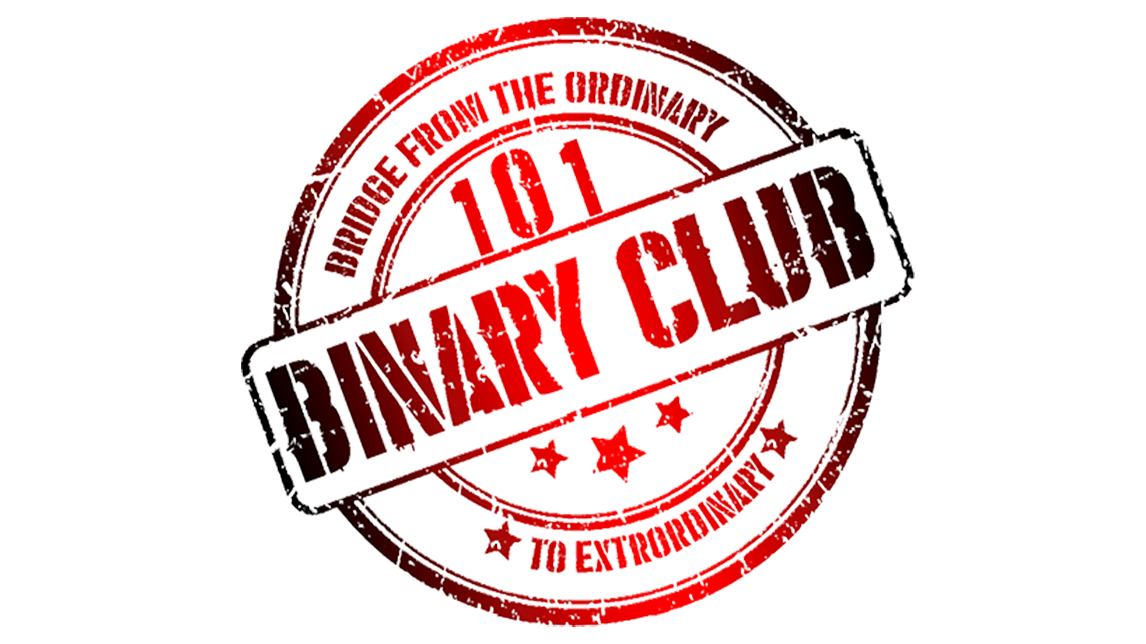
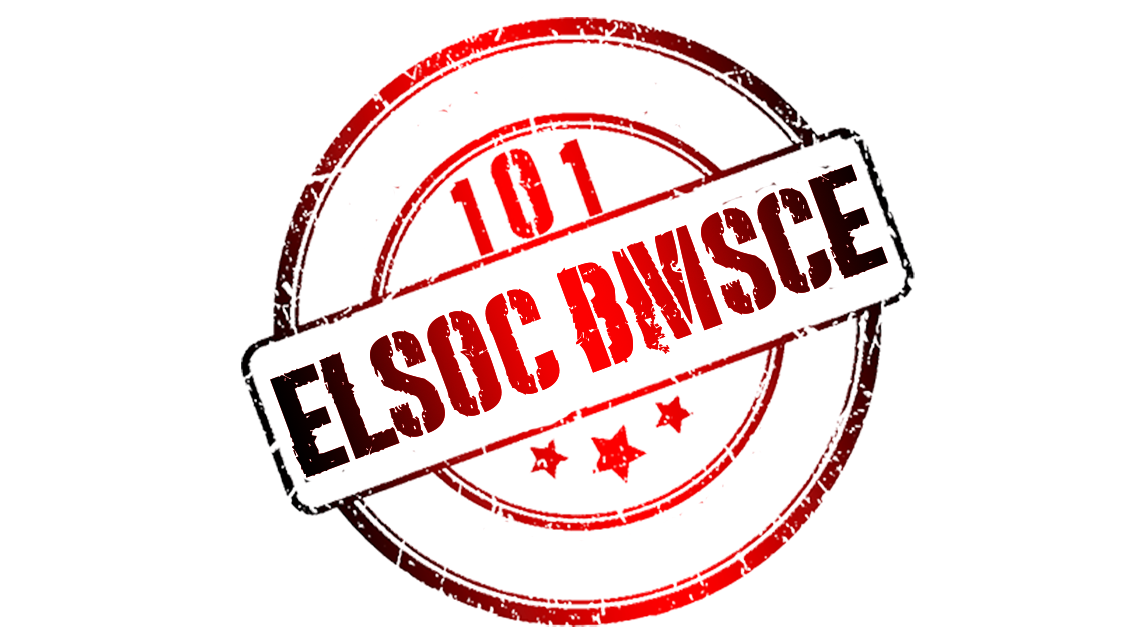
Updated site with new events and images

diff --git a/python.html b/python.html
@@ -1,0 +1,90 @@
+<!DOCTYPE HTML>
+<!--
+	Spectral by HTML5 UP
+	html5up.net | @ajlkn
+	Free for personal and commercial use under the CCA 3.0 license (html5up.net/license)
+-->
+<html>
+	<head>
+		<title>ELSOC-BMSCE</title>
+		<meta charset="utf-8" />
+		<meta name="viewport" content="width=device-width, initial-scale=1, user-scalable=no" />
+		<link rel="stylesheet" href="assets/css/main.css" />
+		<noscript><link rel="stylesheet" href="assets/css/noscript.css" /></noscript>
+	</head>
+	<body class="is-preload">
+
+		<!-- Page Wrapper -->
+			<div id="page-wrapper">
+
+				<!-- Header -->
+					<header id="header">
+						<h1><a href="index.html">ELSOC-BMSCE</a></h1>
+						<nav id="nav">
+							<ul>
+								<li class="special">
+									<a href="#menu" class="menuToggle"><span>Menu</span></a>
+									<div id="menu">
+										<ul>
+											<li><a href="index.html">Home</a></li>
+											<li><a href="Events.html">Events & Updates</a></li>
+											<li><a href="About.html">About</a></li>
+										</ul>
+									</div>
+								</li>
+							</ul>
+						</nav>
+					</header>
+
+				<!-- Main -->
+					<article id="main">
+						<header>
+							<h2>Generic Page</h2>
+							<p>Aliquam ut ex ut interdum donec amet imperdiet eleifend</p>
+						</header>
+						<section class="wrapper style5">
+							<div class="inner">
+
+								<h3>Lorem ipsum dolor</h3>
+								<p>Morbi mattis mi consectetur tortor elementum, varius pellentesque velit convallis. Aenean tincidunt lectus auctor mauris maximus, ac scelerisque ipsum tempor. Duis vulputate ex et ex tincidunt, quis lacinia velit aliquet. Duis non efficitur nisi, id malesuada justo. Maecenas sagittis felis ac sagittis semper. Curabitur purus leo, tempus sed finibus eget, fringilla quis risus. Maecenas et lorem quis sem varius sagittis et a est. Maecenas iaculis iaculis sem. Donec vel dolor at arcu tincidunt bibendum. Interdum et malesuada fames ac ante ipsum primis in faucibus. Fusce ut aliquet justo. Donec id neque ipsum. Integer eget ultricies odio. Nam vel ex a orci fringilla tincidunt. Aliquam eleifend ligula non velit accumsan cursus. Etiam ut gravida sapien.</p>
+
+								<p>Vestibulum ultrices risus velit, sit amet blandit massa auctor sit amet. Sed eu lectus sem. Phasellus in odio at ipsum porttitor mollis id vel diam. Praesent sit amet posuere risus, eu faucibus lectus. Vivamus ex ligula, tempus pulvinar ipsum in, auctor porta quam. Proin nec dui cursus, posuere dui eget interdum. Fusce lectus magna, sagittis at facilisis vitae, pellentesque at etiam. Quisque posuere leo quis sem commodo, vel scelerisque nisi scelerisque. Suspendisse id quam vel tortor tincidunt suscipit. Nullam auctor orci eu dolor consectetur, interdum ullamcorper ante tincidunt. Mauris felis nec felis elementum varius.</p>
+
+								<hr />
+
+								<h4>Feugiat aliquam</h4>
+								<p>Nam sapien ante, varius in pulvinar vitae, rhoncus id massa. Donec varius ex in mauris ornare, eget euismod urna egestas. Etiam lacinia tempor ipsum, sodales porttitor justo. Aliquam dolor quam, semper in tortor eu, volutpat efficitur quam. Fusce nec fermentum nisl. Aenean erat diam, tempus aliquet erat.</p>
+
+								<p>Etiam iaculis nulla ipsum, et pharetra libero rhoncus ut. Phasellus rutrum cursus velit, eget condimentum nunc blandit vel. In at pulvinar lectus. Morbi diam ante, vulputate et imperdiet eget, fermentum non dolor. Ut eleifend sagittis tincidunt. Sed viverra commodo mi, ac rhoncus justo. Duis neque ligula, elementum ut enim vel, posuere finibus justo. Vivamus facilisis maximus nibh quis pulvinar. Quisque hendrerit in ipsum id tellus facilisis fermentum. Proin mauris dui, at vestibulum sit amet, auctor bibendum neque.</p>
+
+							</div>
+						</section>
+					</article>
+
+				<!-- Footer -->
+					<footer id="footer">
+						<ul class="icons">
+							<li><a href="#" class="icon fa-twitter"><span class="label">Twitter</span></a></li>
+							<li><a href="#" class="icon fa-facebook"><span class="label">Facebook</span></a></li>
+							<li><a href="https://www.instagram.com/elsocbmsce/" class="icon fa-instagram"><span class="label">Instagram</span></a></li>
+<!--							<li><a href="#" class="icon fa-dribbble"><span class="label">Dribbble</span></a></li>-->
+							<li><a href="mailto:binaryclub.ece@gmail.com" class="icon fa-envelope-o"><span class="label">Email</span></a></li>
+						</ul>
+						<ul class="copyright">
+                            <li>&copy;ELSOC. All rights reserved.</li><li>Design: <a href="https://github.com/ELSOC">ELSOC-BMSCE</a></li>
+                        </ul>
+					</footer>
+
+			</div>
+
+		<!-- Scripts -->
+			<script src="assets/js/jquery.min.js"></script>
+			<script src="assets/js/jquery.scrollex.min.js"></script>
+			<script src="assets/js/jquery.scrolly.min.js"></script>
+			<script src="assets/js/browser.min.js"></script>
+			<script src="assets/js/breakpoints.min.js"></script>
+			<script src="assets/js/util.js"></script>
+			<script src="assets/js/main.js"></script>
+
+	</body>
+</html>

diff --git a/index.html b/index.html
@@ -44,10 +44,10 @@
 				<!-- Banner -->
 					<section id="banner">
 						<div class="inner">
-                            <img src="images/logo.png" width= "250">
+                            <img src="images/elsoc.png" width= "250">
                             <p>&nbsp</p>
 
-							<h2 style=opacity: 1>ELSOC</h2>
+							<h2 style=opacity: 1>ELSOC - BMSCE</h2>
                             <p>The Bridge from the ordinary<br />
                             to the extraordinary!<br /></p>
                                 <p>&nbsp</p>
@@ -80,7 +80,7 @@
 				<!-- Two -->
 					<section id="two" class="wrapper alt style2">
 						<section class="spotlight">
-							<div class="image"><img src="images/binary-3.jpg" alt="" /></div><div class="content">
+							<div class="image"><img src="images/elsoc.png" alt="" /></div><div class="content">
 								<h2>Who are we?</h2>
 								<p>We are Electronics and Communication department's own student community in B.M.S College of Engineering!</p>
 							</div>
@@ -169,9 +169,9 @@
 					<footer id="footer">
 						<ul class="icons">
 							<li><a href="#" class="icon fa-twitter"><span class="label">Twitter</span></a></li>
-							<li><a href="#" class="icon fa-facebook"><span class="label">Facebook</span></a></li>
-							<li><a href="#" class="icon fa-instagram"><span class="label">Instagram</span></a></li>
-							<li><a href="mailto:binaryclub.ece@gmail.com" class="icon fa-envelope-o"><span class="label">Email</span></a></li>
+							<li><a href="" class="icon fa-facebook"><span class="label">Facebook</span></a></li>
+							<li><a href="https://www.instagram.com/elsocbmsce/" class="icon fa-instagram"><span class="label">Instagram</span></a></li>
+							<li><a href="mailto:elsocbmsce.ece@gmail.com" class="icon fa-envelope-o"><span class="label">Email</span></a></li>
 						</ul>
 						<ul class="copyright">
 							<li>&copy;ELSOC. All rights reserved.</li><li>Design: <a href="https://github.com/ELSOC">ELSOC-BMSCE</a></li>

diff --git a/Events.html b/Events.html
@@ -50,9 +50,13 @@
 							<div class="inner">
 
 								<h3>Events</h3>
-								<p></p>
+                                <ul>
+								<li><p><a href = "python.html">Python Workshop</a></p></li>
 
 								<p></p>
+                                    
+                                
+                                </ul>
 
 								<hr />
 
@@ -70,7 +74,7 @@
 						<ul class="icons">
 							<li><a href="#" class="icon fa-twitter"><span class="label">Twitter</span></a></li>
 							<li><a href="#" class="icon fa-facebook"><span class="label">Facebook</span></a></li>
-							<li><a href="#" class="icon fa-instagram"><span class="label">Instagram</span></a></li>
+							<li><a href="https://www.instagram.com/elsocbmsce/" class="icon fa-instagram"><span class="label">Instagram</span></a></li>
 <!--							<li><a href="#" class="icon fa-dribbble"><span class="label">Dribbble</span></a></li>-->
 <li><a href="mailto:binaryclub.ece@gmail.com" class="icon fa-envelope-o"><span class="label">Email</span></a></li>						
                         </ul>

diff --git a/About.html b/About.html
@@ -366,7 +366,7 @@ print 'It took ' + i + ' iterations to sort the deck.';</code></pre>
 						<ul class="icons">
 							<li><a href="#" class="icon fa-twitter"><span class="label">Twitter</span></a></li>
 							<li><a href="#" class="icon fa-facebook"><span class="label">Facebook</span></a></li>
-							<li><a href="#" class="icon fa-instagram"><span class="label">Instagram</span></a></li>
+							<li><a href="https://www.instagram.com/elsocbmsce/" class="icon fa-instagram"><span class="label">Instagram</span></a></li>
 <!--							<li><a href="#" class="icon fa-dribbble"><span class="label">Dribbble</span></a></li>-->
 <li><a href="mailto:binaryclub.ece@gmail.com" class="icon fa-envelope-o"><span class="label">Email</span></a></li>
                         </ul>
